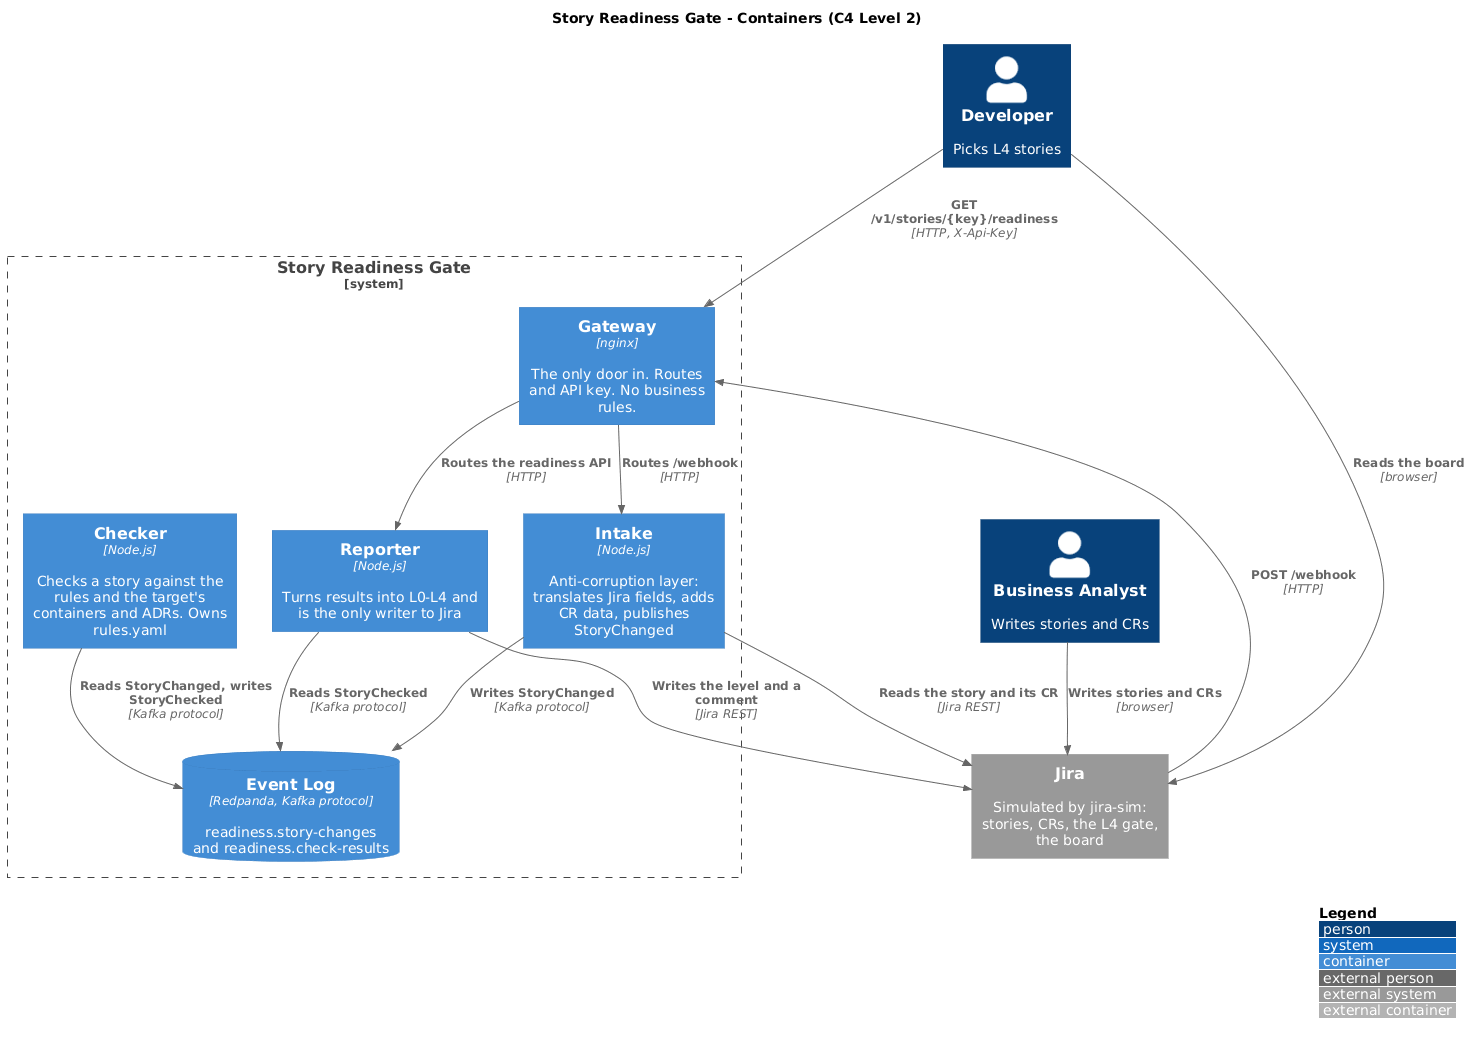
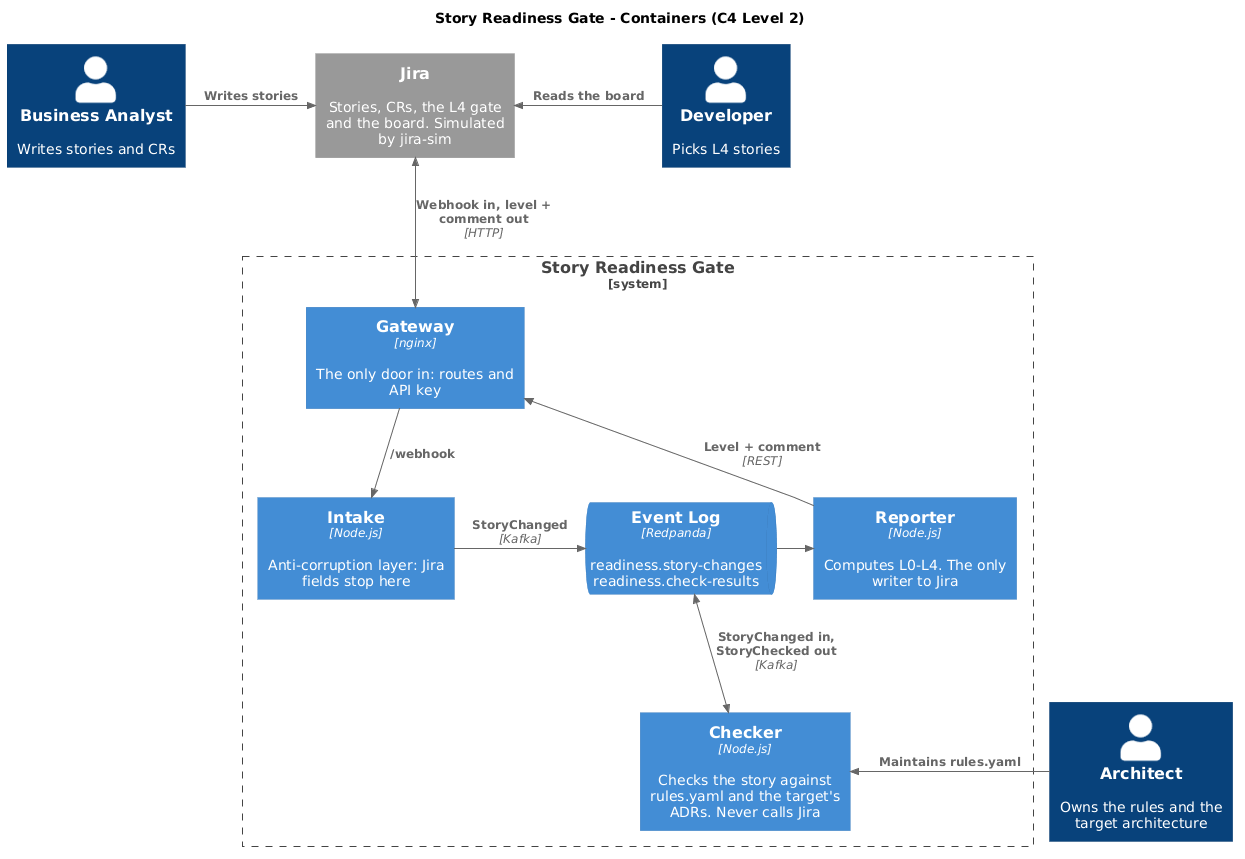
Shorten the README and simplify the containers diagram
The README keeps the flow, the level table, how to run it and the
ports, and links to the docs instead of repeating them.

The containers diagram adds the Architect, shows one Event Log between
Intake, Checker and Reporter, and routes everything to and from Jira
through the Gateway.

diff --git a/README.md b/README.md
@@ -1,38 +1,23 @@
 # Story Readiness Gate
 
-**A Definition of Ready gate for Jira, checked against your own architecture.** It grades every user story L0 to L4 and blocks "Ready for Dev" until it reaches L4, so bad stories are caught when they are written, not mid-sprint.
-
-This repository is a **proof of concept**. It shows the idea and the architecture on a Jira simulator. See [What a full version adds](#what-a-full-version-adds).
-
-## The problem
-
-Stories reach the sprint half-ready: acceptance criteria say "fast" or "TBD", nobody knows which services are touched, stories break architecture decisions, and scope creeps past what the Change Request (CR) approved. Developers find out mid-sprint and send them back. Existing story checkers look at the text only. They don't know your architecture.
-
-## How it works
+A Definition of Ready gate for Jira. It grades every story L0 to L4 against the team's own architecture and blocks "Ready for Dev" until L4. This is a **proof of concept** on a Jira simulator.
 
 ```text
 Jira ──webhook──> Gateway ──> Intake ──StoryChanged──> Checker ──StoryChecked──> Reporter ──level + comment──> Jira
 ```
 
-1. A BA saves a story. It becomes **Pending**, and saving is always allowed.
-2. **Intake** reads the story and its CR, translates Jira's fields and publishes `StoryChanged`.
-3. **Checker** runs the checks and publishes `StoryChecked`. It never calls Jira.
-4. **Reporter** computes the level and writes it to Jira with a comment listing what is missing.
-5. **The gate** allows "Ready for Dev" only at L4. It reads the stored level, so it stays closed if our services are down.
-6. Any edit resets the story to Pending. A story that drops below L4 moves back to Refinement.
+A saved story becomes Pending, gets checked, and gets a level plus a comment saying what is missing. The gate reads only the stored level, so it stays closed if our services are down. A story that drops below L4 moves back to Refinement.
 
-| Level | Meaning | Checks |
-|-------|---------|--------|
-| **L1** Draft | Has the shape of a story | `[Area]` title; As a / I want / So that |
-| **L2** Defined | Can be tested | Given/When/Then; a negative case; no vague words or TBD |
-| **L3** Refined | Impact is known and allowed | CR linked; containers found; no conflict with the target's ADRs |
-| **L4** Dev-ready | Can enter a sprint | CR approved; nothing out of scope; impact declared by the CR; data owner named |
+| Level | Checks |
+|-------|--------|
+| **L1** Draft | `[Area]` title; As a / I want / So that |
+| **L2** Defined | Given/When/Then; a negative case; no vague words or TBD |
+| **L3** Refined | CR linked; containers found; follows the target's ADRs |
+| **L4** Dev-ready | CR approved; in scope; impact declared; data owner named |
 
-A story is L0 if an L1 check fails. A story's `status` field holds its exact value (`Pending`, or `L0` to `L4`), and `workflowStatus` holds its board column. `GET http://localhost:9001/v1/statuses` lists every status with a short description. Rules live in [`rules.yaml`](services/checker/rules.yaml), so adding a word or an ADR rule is a config change. The target system is Northline Shop, described by `rules.yaml` and [`target-containers.puml`](services/checker/target-containers.puml).
+L0 means an L1 check fails. Rules live in [`rules.yaml`](services/checker/rules.yaml).
 
 ## Run it
-
-You need Docker Desktop.
 
 ```bash
 docker compose up -d --build --wait
@@ -42,58 +27,21 @@ docker compose up -d --build --wait
 docker compose run --rm demo
 ```
 
-The demo walks one story through the whole flow: weak story at L1, gate refuses it, story fixed to L4, gate opens, scope creep drops it to L3 and it moves back. It prints the comments a BA would see and ends with `DEMO PASSED`.
-
-To try it by hand, open Swagger UI at http://localhost:9002. To watch the cases, open the case viewer at http://localhost:9003.
-
-| Port | Service |
-|------|---------|
+| Port | What |
+|------|------|
 | 9000 | Jira simulator |
 | 9001 | API gateway (`X-Api-Key: dev-only-api-key`) |
 | 9002 | Swagger UI |
-| 9003 | Case viewer: every story and CR with its grade |
+| 9003 | Case viewer: every story and CR, with buttons to complete or break a story |
 
-```bash
-docker compose run --rm fitness
-```
-
-```bash
-docker compose run --rm k6
-```
-
-To see events catch up, run `docker compose stop checker`, save a story (it stays Pending and the gate stays closed), then run `docker compose start checker` and it gets graded within about 30 seconds.
+Also: `docker compose run --rm fitness` (architecture rules) and `docker compose run --rm k6` (SLO load test).
 
 ## Architecture
 
 ![Containers](docs/containers.png)
 
-| Container | Role |
-|-----------|------|
-| **Gateway** (nginx) | The only door in: routes and API key |
-| **Intake** | Anti-corruption layer: Jira's field names stop here |
-| **Checker** | Checks a story against the rules and the target architecture |
-| **Reporter** | Computes the level; the only writer to Jira |
-| **Redpanda** | The event log between services |
-| **jira-sim** | Stand-in for Jira, including the gate and the board |
-
-| Course topic | Where it is |
-|--------------|-------------|
-| C4 context and containers | [`docs/context.puml`](docs/context.puml), [`docs/containers.puml`](docs/containers.puml) |
-| Bounded contexts | [`docs/context-map.md`](docs/context-map.md) |
-| ADRs | [Events](docs/adr/adr-001-services-talk-through-events.md), [async validation and the gate](docs/adr/adr-002-validate-async-enforce-at-gate.md), [anti-corruption layer](docs/adr/adr-003-intake-is-the-anti-corruption-layer.md) |
-| API contract | [`api/openapi.yaml`](api/openapi.yaml) |
-| Events, idempotency, catch-up | [`services/`](services), consumer groups and `event_id` |
-| API gateway | [`gateway/nginx.conf`](gateway/nginx.conf) |
-| SLO and load test | [`docs/slo/readiness-slo.md`](docs/slo/readiness-slo.md), [`load/story-burst.js`](load/story-burst.js) |
-| Fitness function | [`fitness/service-boundaries.js`](fitness/service-boundaries.js) |
+Intake is the only service that knows Jira's field names, Checker never calls Jira, and Reporter is the only writer to Jira. See the [context map](docs/context-map.md), the [ADRs](docs/adr), the [API contract](api/openapi.yaml), the [SLO](docs/slo/readiness-slo.md) and the [fitness function](fitness/service-boundaries.js).
 
 ## What a full version adds
 
-Left out on purpose, to keep the proof of concept small:
-
-- **Real Jira:** a thin Forge app with a readiness field and a workflow validator. The checks do not change (ADR-003).
-- **Durable state and resilience:** store grades in a database, sign webhooks, add a circuit breaker and an outbox for Jira outages.
-- **Audited overrides:** architects can bypass the gate with a recorded reason.
-- **Richer checks:** OpenAPI paths, INVEST, security review labels, re-reading ADRs directly.
-- **AI as advisor:** warnings for scope creep by meaning, never deciding the level (ADR-002).
-- **Pilot:** measure stories bounced back by developers, before and after. The benefits are unproven until then.
+Real Jira through a Forge app, durable state, signed webhooks, audited overrides, richer checks, AI as an advisor only, and a pilot that measures stories bounced back by developers.
